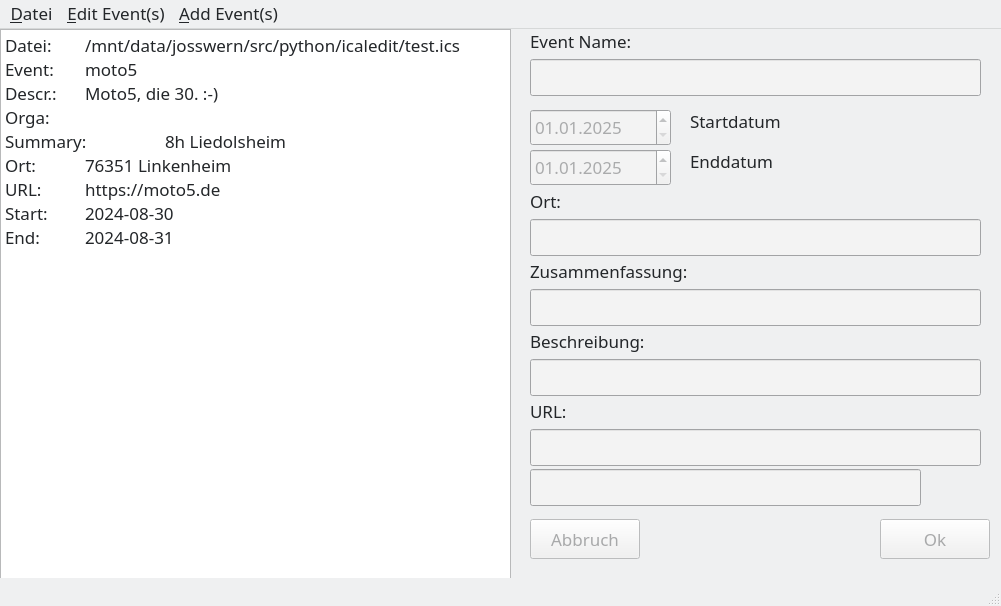
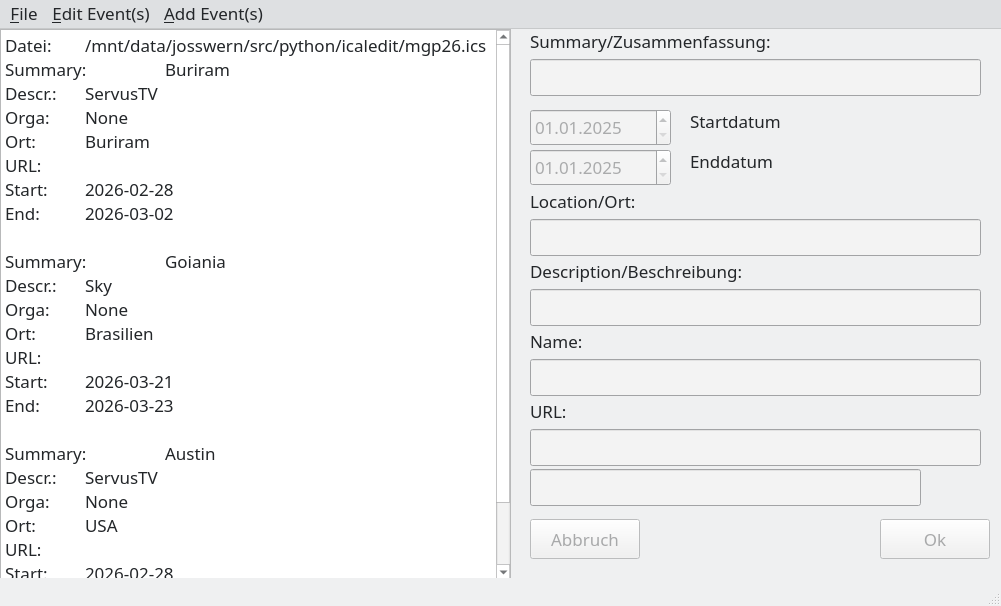
use summary as EventID instaed of Name

diff --git a/icaledit.py b/icaledit.py
@@ -52,6 +52,7 @@ class MainWindow(QMainWindow, icedit_ui.Ui_MainWindow):
 		    
 	def UpdateInfoPane(self):
 		self.plainTextEdit.clear()
+		self.edit_menu.clear()	#	important !
 		if (self.filename):
 			self.message('Datei:\t'+self.filename)
 		enum = 1
@@ -60,23 +61,24 @@ class MainWindow(QMainWindow, icedit_ui.Ui_MainWindow):
 				event = Event()
 				event = component
 				#if not str(component.get("name")):
-				if (str(event.get("name")) == "None"):
-					Name = 'Event '+str(enum)
+				if (str(event.get("summary")) == "None"):
+					eventId = 'Event '+str(enum)
 				else:
-					Name = str(event.get("name"))
+					eventId = str(event.get("summary"))
 				
 				# edit Events menu
-				event_action = QAction(Name, self)
+				event_action = QAction(eventId, self)
 				event_action.triggered.connect(self.EditEvent)
 				self.edit_menu.addAction(event_action)
 
-				#print ("Name: ", Name)
-				event["name"] = Name	# finally, that's it :-)
-				#self.message('Name:\t'+Name)
-				self.message('Event:\t'+str(event.get("name")))
+				#print ("eventId: ", eventId)
+				event["summary"] = eventId	# finally, that's it :-)
+				event["name"] = eventId	# finally, that's it :-)
+				#self.message('eventId:\t'+eventId)
+				#self.message('Event:\t'+str(event.get("name")))
+				self.message('Summary:\t'+str(event.get("summary")))
 				self.message('Descr.:\t'+str(event.get("description")))
 				self.message('Orga:\t'+str(event.get("organizer")))
-				self.message('Summary:\t'+str(event.get("summary")))
 				self.message('Ort:\t'+str(event.get("location")))
 				self.message('URL:\t'+str(event.get("url")))
 				#self.message('GEO:\t'+str(event.get("geo")))
@@ -96,11 +98,11 @@ class MainWindow(QMainWindow, icedit_ui.Ui_MainWindow):
 			self.ecal.add("version", "2.0")
 
 			event = Event()
-			event.add("name","New")
+			event.add("summary","New")
 			event.add("dtstart",date.today())
 			event.add("dtend",date.today())
 			event.add("location","")
-			event.add("summary","")
+			event.add("name","New")
 			#event.add("geo","49.1,3.2")
 			event.add("url","")
 			today = QDate.currentDate()
@@ -112,28 +114,30 @@ class MainWindow(QMainWindow, icedit_ui.Ui_MainWindow):
 			self.UpdateInfoPane()
 	
 	def AddEvents(self):
-		selectedName = self.sender()
+		selectedEvent = self.sender()
 		self.edit_menu.clear()	#	important !
-		print("Sender: ", selectedName.text())
+		print("Sender: ", selectedEvent.text())
 		if (self.ecal):
 			event = Event()
 			for component in self.ecal.walk():
 				if component.name == "VEVENT":
 					event = component
 					start = event.get("dtstart")	# get a valid dtstart
-					#print("Event: ", event.get("name"))
+					#print("Event: ", event.get("summary"))
 			event = Event()	# new Event !
-			event["name"] = selectedName.text()
+			event["summary"] = selectedEvent.text()
+			event["name"] = event["summary"]
 			event["dtstart"] = start	#	these 2 must be populated !
 			event["dtend"] = start
 			self.ecal.add_component(event)	# kompletten event zum Kalender hinzufügen !
 			event = Event()
+			self.edit_menu.clear()	#	important !
 			for component in self.ecal.walk():
 				if component.name == "VEVENT":
 					event = component
-					print("Event added: ", event.get("name"))
+					print("Event added: ", event.get("summary"))
 					#edit Events menu
-					event_action = QAction(event.get("name"), self)
+					event_action = QAction(event.get("summary"), self)
 					event_action.triggered.connect(self.EditEvent)
 					self.edit_menu.addAction(event_action)
 
@@ -159,22 +163,24 @@ class MainWindow(QMainWindow, icedit_ui.Ui_MainWindow):
 	
 	def EditEvent(self):
 		# see https://stackoverflow.com/questions/52526040/how-to-get-the-name-of-a-qmenu-item-when-clicked
-		selectedName = self.sender()
-		print("selected Event (edit): ",selectedName.text())
+		selectedEvent = self.sender()
+		print("selected Event (edit): ",selectedEvent.text())
 
 		for component in self.ecal.walk():
 			if component.name == "VEVENT":
 				event = Event()
 				event = component
-				Name = str(event.get("name"))
-				print("Name: ", Name)
-				if (Name == selectedName.text()):
+				eventId = str(event.get("summary"))
+				print("eventId: ", eventId)
+				if (eventId == selectedEvent.text()):
 					self.selectedEvent = event
-					#print("Found: ", Name)
+					#print("Found: ", eventId)
 					break
-		print("selected Name: ", Name)
-		self.nameEdit.setEnabled(True)
-		self.nameEdit.setText(Name)
+		print("selected eventId: ", eventId)
+		#self.nameEdit.setEnabled(True)
+		self.sumEdit.setEnabled(True)
+		self.nameEdit.setText(eventId)
+		self.sumEdit.setText(eventId)
 		self.startEdit.setEnabled(True)
 		
 		#print(str(event.decoded("dtstart")))
@@ -221,13 +227,14 @@ class MainWindow(QMainWindow, icedit_ui.Ui_MainWindow):
 			if component.name == "VEVENT":
 				event = Event()
 				event = component
-				Name = str(event.get("name"))
-				if (Name == self.nameEdit.text()):
+				eventId = str(event.get("summary"))
+				if (eventId == self.sumEdit.text()):
 					self.selectedEvent = event
-					#print("Found: ", Name)
+					#print("Found: ", eventId)
 					break
-		print("selected Name: ", Name)
-		self.selectedEvent["name"] = self.nameEdit.text()
+		print("selected eventId: ", eventId)
+		self.selectedEvent["summary"] = self.sumEdit.text()
+		self.selectedEvent["name"] = self.sumEdit.text()
 		self.selectedEvent["description"] = self.descEdit.text()
 		line = self.startEdit.text()
 		print(line)

diff --git a/icedit_ui.py b/icedit_ui.py
@@ -21,7 +21,7 @@ class Ui_MainWindow(object):
         self.plainTextEdit.setObjectName("plainTextEdit")
         self.nameEdit = QtWidgets.QLineEdit(parent=self.centralwidget)
         self.nameEdit.setEnabled(False)
-        self.nameEdit.setGeometry(QtCore.QRect(530, 30, 451, 37))
+        self.nameEdit.setGeometry(QtCore.QRect(530, 330, 451, 37))
         self.nameEdit.setObjectName("nameEdit")
         self.startEdit = QtWidgets.QDateEdit(parent=self.centralwidget)
         self.startEdit.setEnabled(False)
@@ -35,11 +35,11 @@ class Ui_MainWindow(object):
         self.endEdit.setObjectName("endEdit")
         self.sumEdit = QtWidgets.QLineEdit(parent=self.centralwidget)
         self.sumEdit.setEnabled(False)
-        self.sumEdit.setGeometry(QtCore.QRect(530, 260, 451, 37))
+        self.sumEdit.setGeometry(QtCore.QRect(530, 30, 451, 37))
         self.sumEdit.setObjectName("sumEdit")
         self.descEdit = QtWidgets.QLineEdit(parent=self.centralwidget)
         self.descEdit.setEnabled(False)
-        self.descEdit.setGeometry(QtCore.QRect(530, 330, 451, 37))
+        self.descEdit.setGeometry(QtCore.QRect(530, 260, 451, 37))
         self.descEdit.setObjectName("descEdit")
         self.urlEdit = QtWidgets.QLineEdit(parent=self.centralwidget)
         self.urlEdit.setEnabled(False)
@@ -62,7 +62,7 @@ class Ui_MainWindow(object):
         self.locEdit.setGeometry(QtCore.QRect(530, 190, 451, 37))
         self.locEdit.setObjectName("locEdit")
         self.NameLabel = QtWidgets.QLabel(parent=self.centralwidget)
-        self.NameLabel.setGeometry(QtCore.QRect(530, 0, 111, 24))
+        self.NameLabel.setGeometry(QtCore.QRect(530, 300, 111, 24))
         self.NameLabel.setObjectName("NameLabel")
         self.StartLabel = QtWidgets.QLabel(parent=self.centralwidget)
         self.StartLabel.setGeometry(QtCore.QRect(690, 80, 101, 24))
@@ -71,13 +71,13 @@ class Ui_MainWindow(object):
         self.EndLabel.setGeometry(QtCore.QRect(690, 120, 101, 24))
         self.EndLabel.setObjectName("EndLabel")
         self.LocLabel = QtWidgets.QLabel(parent=self.centralwidget)
-        self.LocLabel.setGeometry(QtCore.QRect(530, 160, 76, 24))
+        self.LocLabel.setGeometry(QtCore.QRect(530, 160, 121, 24))
         self.LocLabel.setObjectName("LocLabel")
         self.SumLabel = QtWidgets.QLabel(parent=self.centralwidget)
-        self.SumLabel.setGeometry(QtCore.QRect(530, 230, 181, 24))
+        self.SumLabel.setGeometry(QtCore.QRect(530, 0, 251, 24))
         self.SumLabel.setObjectName("SumLabel")
         self.DescLabel = QtWidgets.QLabel(parent=self.centralwidget)
-        self.DescLabel.setGeometry(QtCore.QRect(530, 300, 141, 24))
+        self.DescLabel.setGeometry(QtCore.QRect(530, 230, 211, 24))
         self.DescLabel.setObjectName("DescLabel")
         self.UrlLabel = QtWidgets.QLabel(parent=self.centralwidget)
         self.UrlLabel.setGeometry(QtCore.QRect(530, 370, 76, 24))
@@ -127,14 +127,14 @@ class Ui_MainWindow(object):
         self.okButton.setText(_translate("MainWindow", "Ok"))
         self.cancelButton.setText(_translate("MainWindow", "Abbruch"))
         self.locEdit.setToolTip(_translate("MainWindow", "Location"))
-        self.NameLabel.setText(_translate("MainWindow", "Event Name:"))
+        self.NameLabel.setText(_translate("MainWindow", "Name:"))
         self.StartLabel.setText(_translate("MainWindow", "Startdatum"))
         self.EndLabel.setText(_translate("MainWindow", "Enddatum"))
-        self.LocLabel.setText(_translate("MainWindow", "Ort:"))
-        self.SumLabel.setText(_translate("MainWindow", "Zusammenfassung:"))
-        self.DescLabel.setText(_translate("MainWindow", "Beschreibung:"))
+        self.LocLabel.setText(_translate("MainWindow", "Location/Ort:"))
+        self.SumLabel.setText(_translate("MainWindow", "Summary/Zusammenfassung:"))
+        self.DescLabel.setText(_translate("MainWindow", "Description/Beschreibung:"))
         self.UrlLabel.setText(_translate("MainWindow", "URL:"))
-        self.menuDatei.setTitle(_translate("MainWindow", "&Datei"))
+        self.menuDatei.setTitle(_translate("MainWindow", "&File"))
         self.actionNeu.setText(_translate("MainWindow", "Neu"))
         self.actionNeu.setShortcut(_translate("MainWindow", "Ctrl+N"))
         self.actionOpen.setText(_translate("MainWindow", "Öffnen"))
